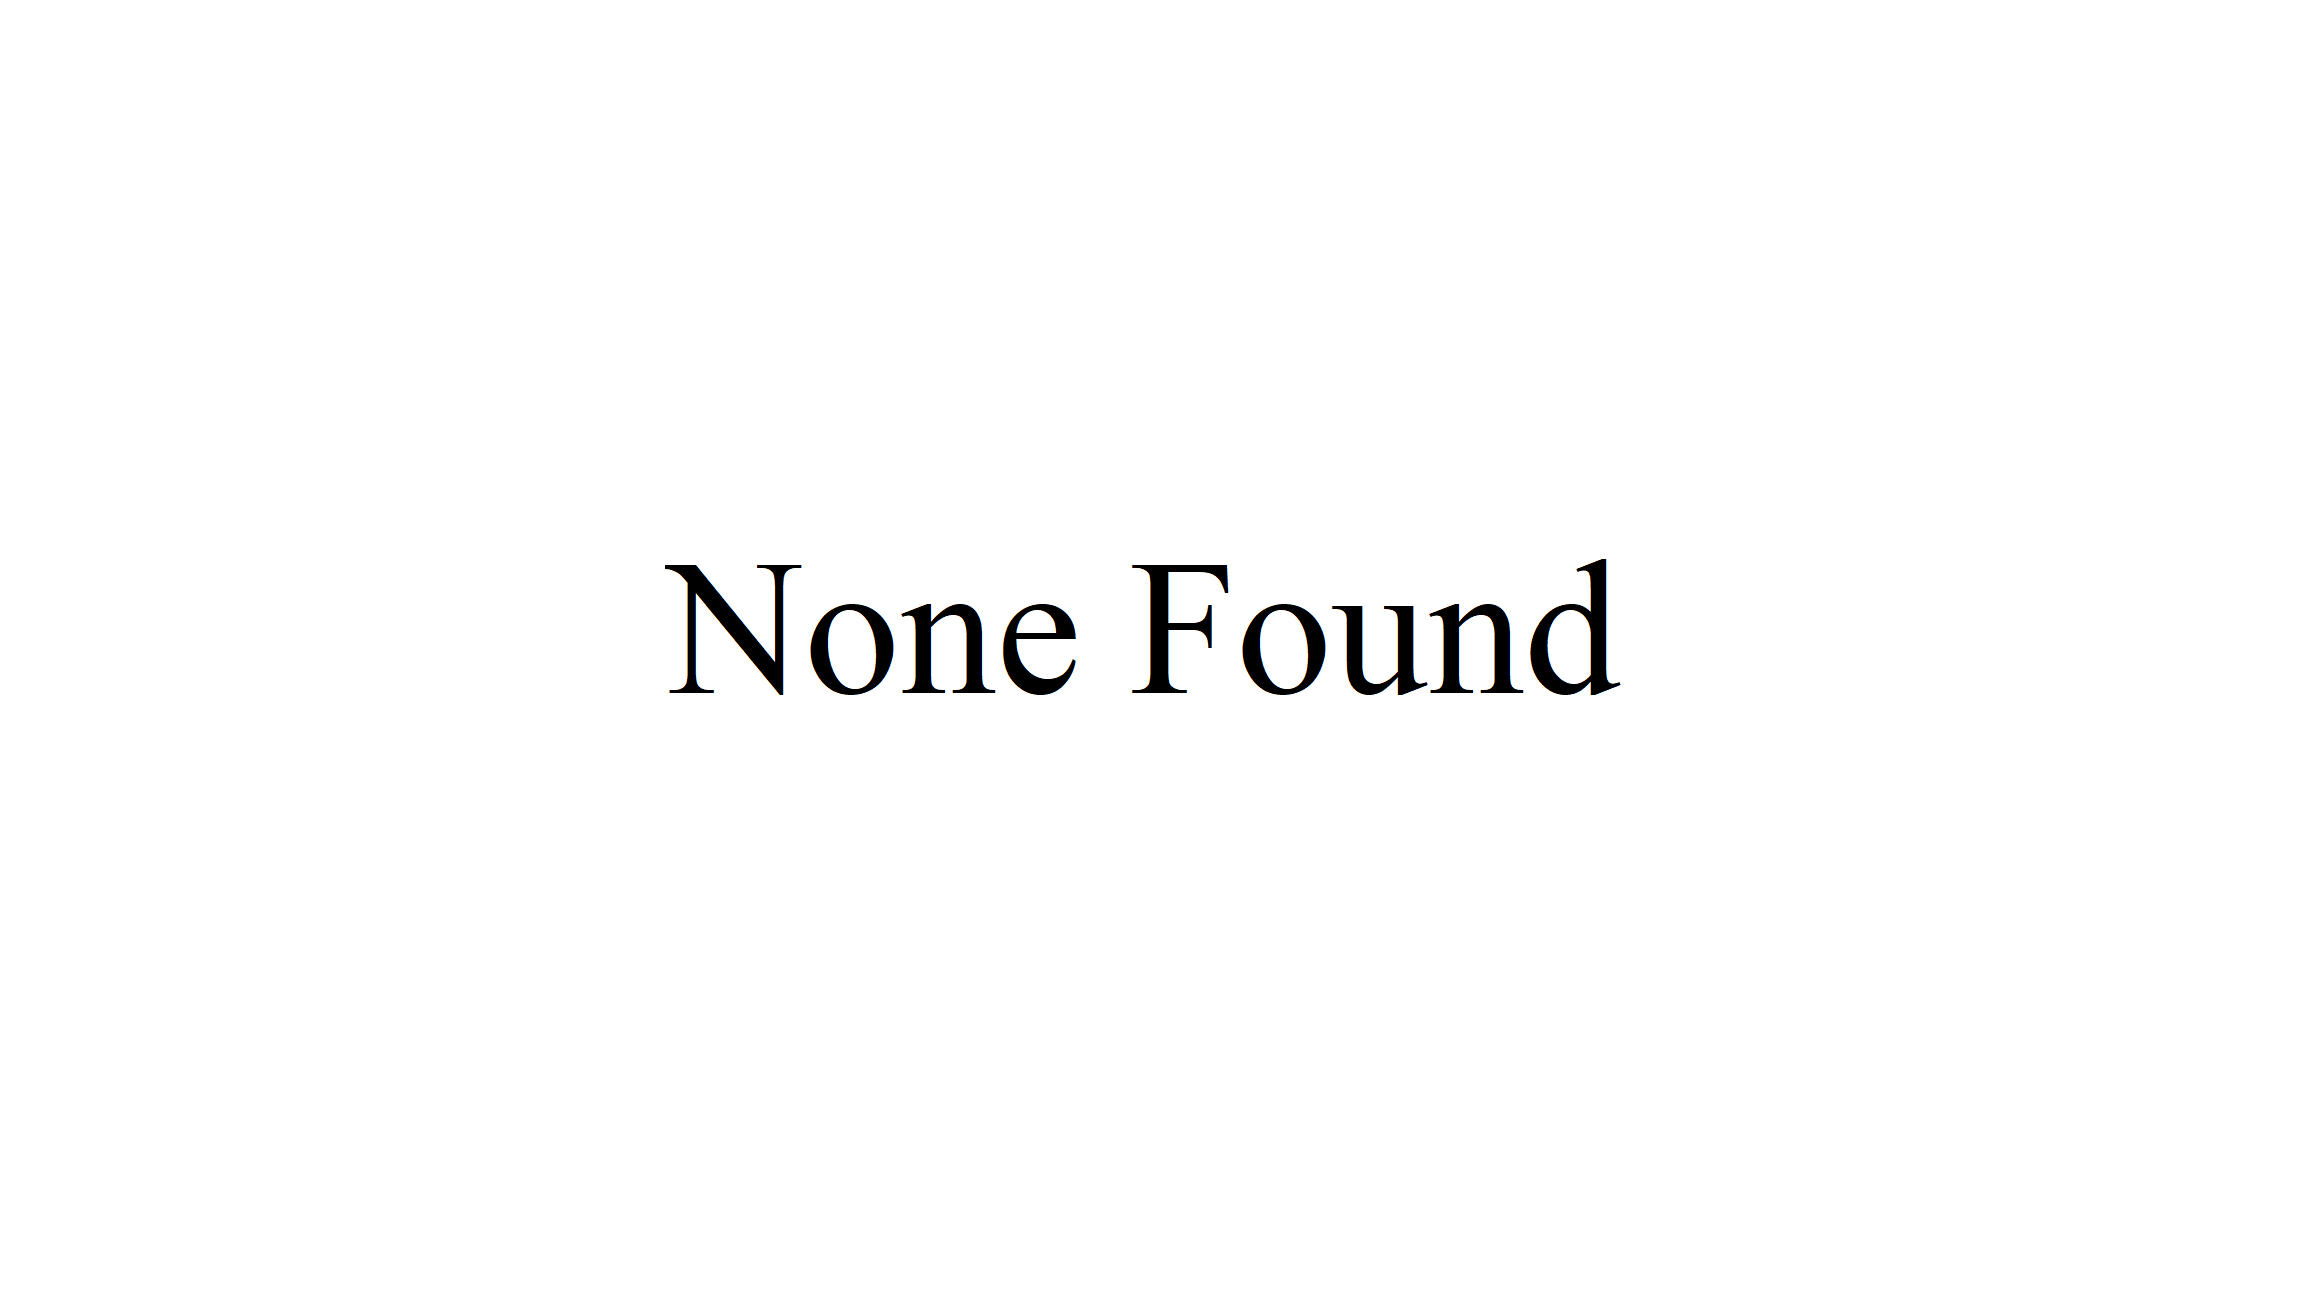
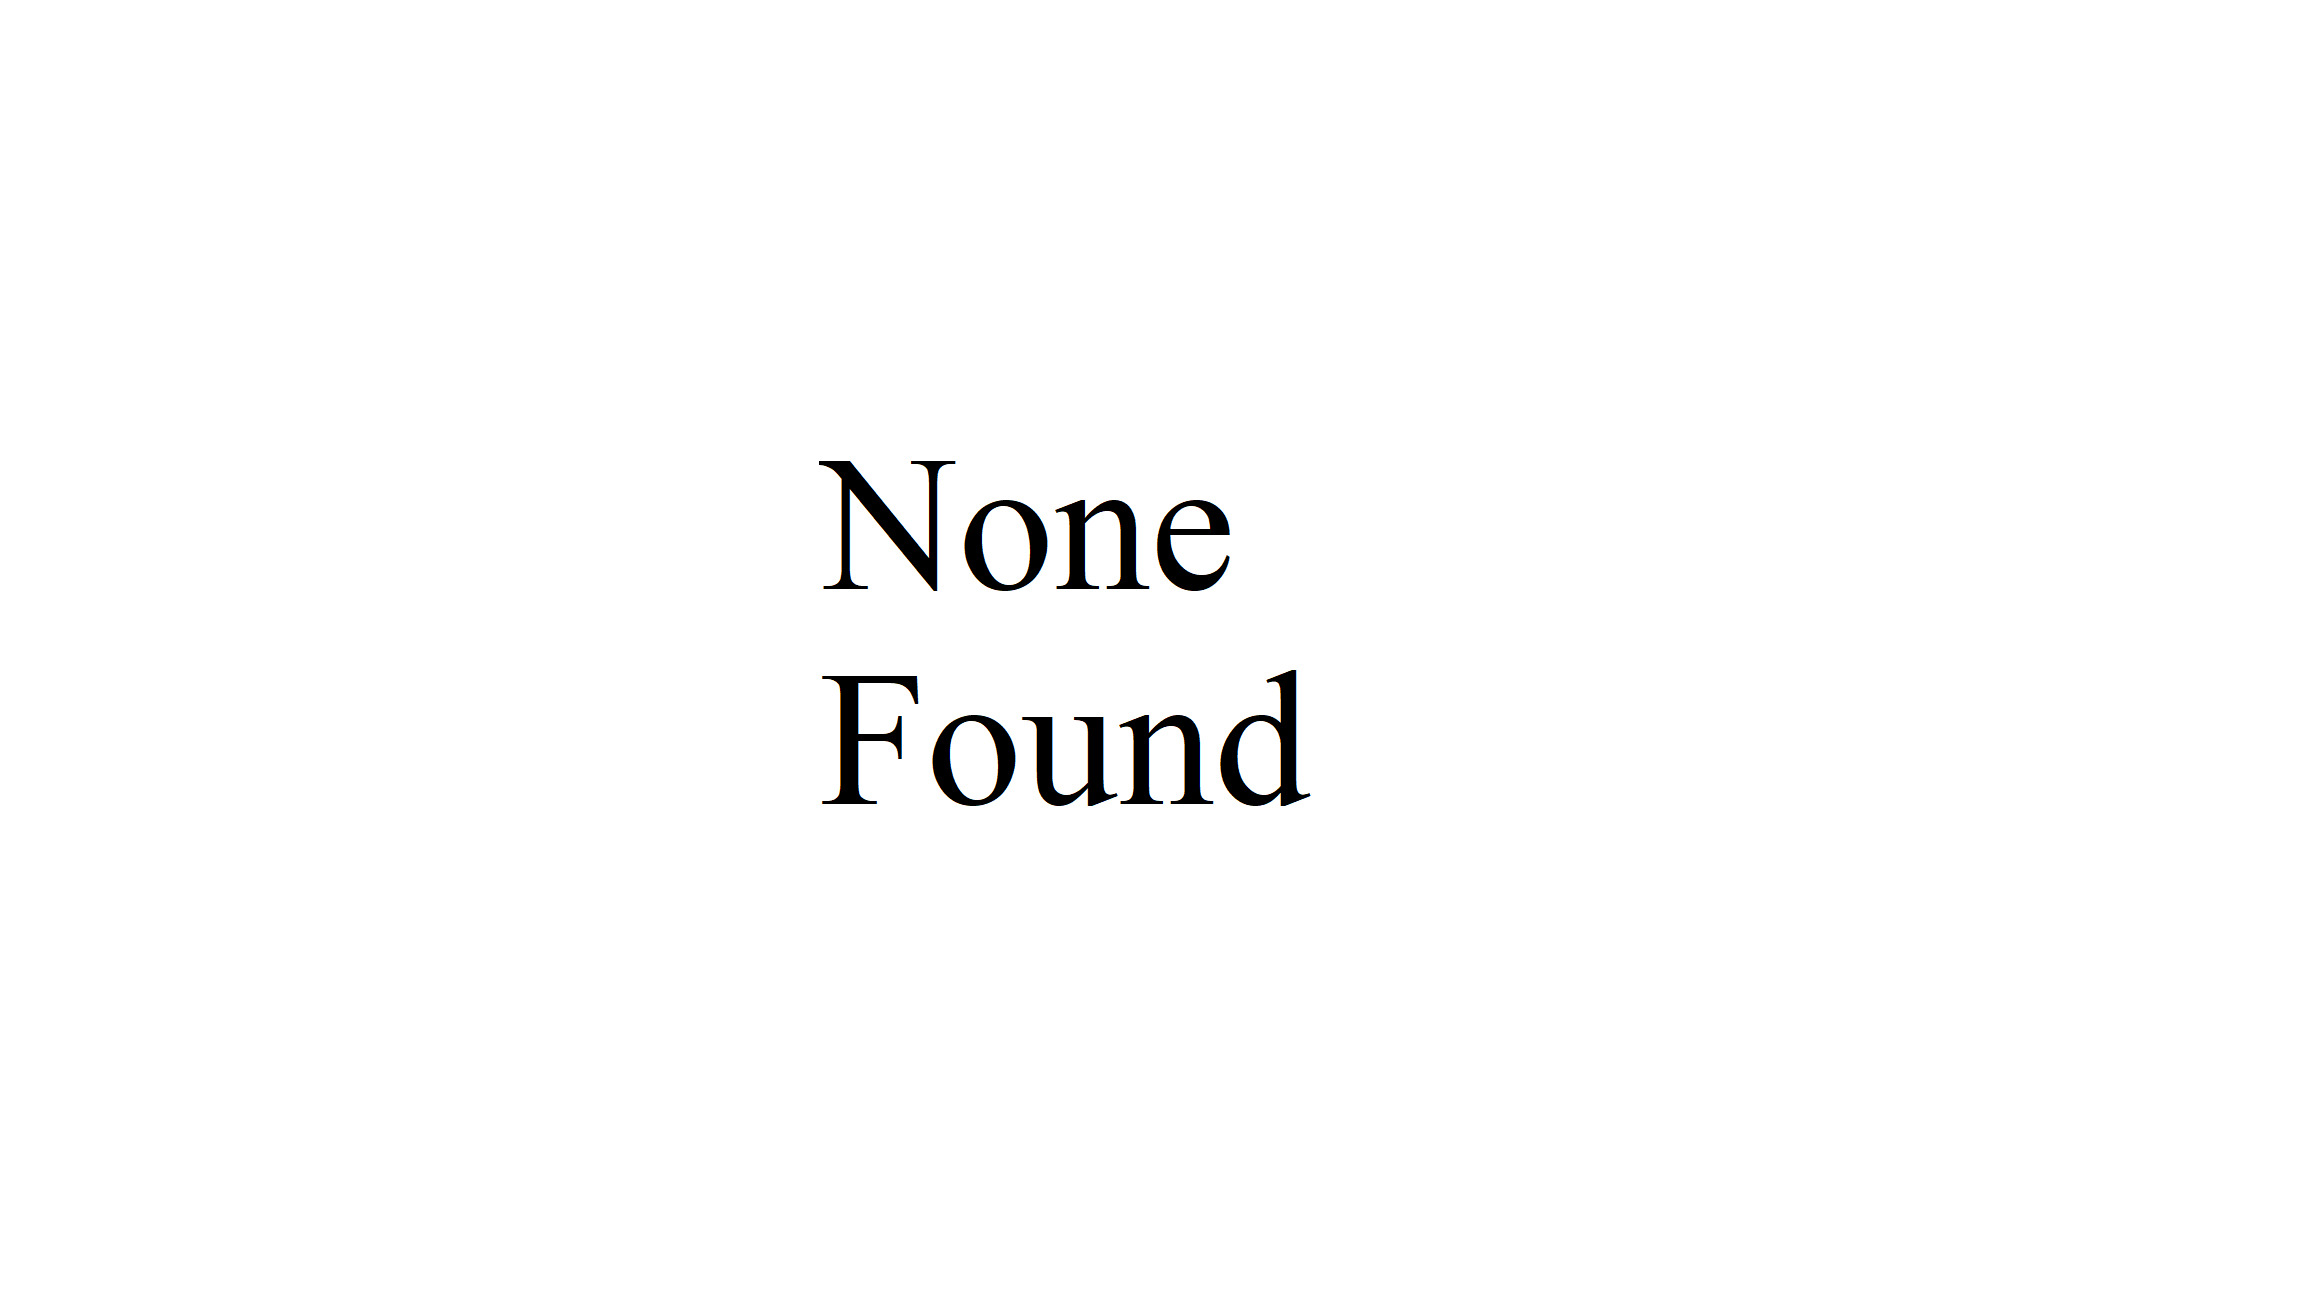
Add crop url parameter and functionality, add subreddit functionality

Changed region(s): [[0.2812, 0.3395, 0.7188, 0.6173]]

diff --git a/apps/web/controllers/images/subreddit.rb b/apps/web/controllers/images/subreddit.rb
@@ -1,12 +1,22 @@
 module Web
     module Controllers
         module Images
-            class TodayOrRandom
+            class Subreddit
                 include Web::Action
 
                 def call(params)
-                    imageObject = ImageRepository.new.todayOrRandom(params[:orientation])
-                    image = MiniMagick::Image.open(imageObject ? imageObject.path : './apps/web/assets/images/none-found.png')
+                    url = "https://www.reddit.com/r/#{params[:sub] ? params[:sub] : 'art'}/top.json?sort=top&t=#{params[:time] ? params[:time] : 'day'}&limit=1"
+                    data = JSON.parse(open(url, 'User-Agent' => 'thisisatestwoo').read)
+                    imgUrl = data['data']['children'][0]['data']['url_overridden_by_dest']
+
+                    downPath = './public/assets/down.png'
+
+                    if ['jpeg', 'jpg', 'png'].include? imgUrl.split(".")[-1].downcase
+                        Down.download(imgUrl, destination: downPath)
+                        image = MiniMagick::Image.open(downPath)
+                    elsif
+                        image = MiniMagick::Image.open('./apps/web/assets/images/none-found.png')
+                    end
 
                     ext = params[:format] ? params[:format] : 'png'
 
@@ -37,16 +47,6 @@ module Web
 
                     elsif params[:size]
                         image.resize params[:size]
-                    end
-
-                    if params[:date] == 'true' and imageObject and imageObject.date_taken
-                        image.combine_options do |c|
-                            c.gravity 'Southeast'
-                            c.fill 'white'
-                            c.undercolor '#0008'
-                            c.pointsize '48'
-                            c.draw "text 0,-9 '" + imageObject.date_taken.strftime('%-m/%-d/%Y') + "'"
-                        end
                     end
 
                     image.write('./public/assets/converted.' + ext)

diff --git a/apps/web/config/routes.rb b/apps/web/config/routes.rb
@@ -13,4 +13,5 @@ get '/images/today-or-random', to: 'images#today-or-random', as: 'todayOrRandom'
 get '/directories', to: 'directories#index', as: 'directoryIndex'
 post '/directories/sync', to: 'directories#sync', as: 'directorySync'
 patch '/directories/:id', to: 'directories#update', as: 'directoryUpdate'
-post '/directories/:id/images/sync', to: 'images#sync', as: 'sync', as: 'directorySyncImages'
+post '/directories/:id/images/sync', to: 'images#sync', as: 'directorySyncImages'
+get '/images/subreddit', to: 'images#subreddit', as: 'subreddit'

diff --git a/spec/web/views/images/subreddit_spec.rb b/spec/web/views/images/subreddit_spec.rb
@@ -1,0 +1,10 @@
+RSpec.describe Web::Views::Images::Subreddit, type: :view do
+  let(:exposures) { Hash[format: :html] }
+  let(:template)  { Hanami::View::Template.new('apps/web/templates/images/subreddit.html.erb') }
+  let(:view)      { described_class.new(template, exposures) }
+  let(:rendered)  { view.render }
+
+  it 'exposes #format' do
+    expect(view.format).to eq exposures.fetch(:format)
+  end
+end

diff --git a/spec/web/controllers/images/subreddit_spec.rb b/spec/web/controllers/images/subreddit_spec.rb
@@ -1,0 +1,9 @@
+RSpec.describe Web::Controllers::Images::Subreddit, type: :action do
+  let(:action) { described_class.new }
+  let(:params) { Hash[] }
+
+  it 'is successful' do
+    response = action.call(params)
+    expect(response[0]).to eq 200
+  end
+end

diff --git a/apps/web/views/images/subreddit.rb b/apps/web/views/images/subreddit.rb
@@ -1,0 +1,9 @@
+module Web
+  module Views
+    module Images
+      class Subreddit
+        include Web::View
+      end
+    end
+  end
+end

diff --git a/README.md b/README.md
@@ -31,3 +31,7 @@ How to prepare (create and migrate) DB for `development` and `test` environments
 ```
 
 Explore Hanami [guides](https://guides.hanamirb.org/), [API docs](http://docs.hanamirb.org/1.3.3/), or jump in [chat](http://chat.hanamirb.org) for help. Enjoy! 🌸
+
+
+## SVGs
+https://iconmonstr.com
